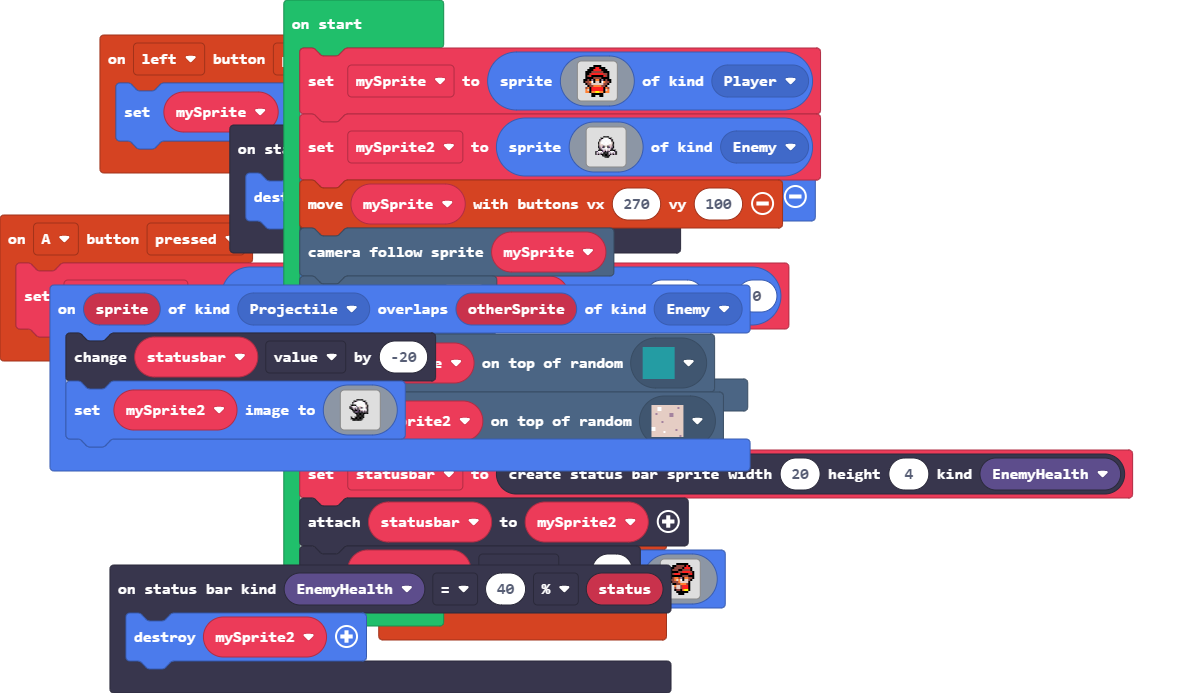
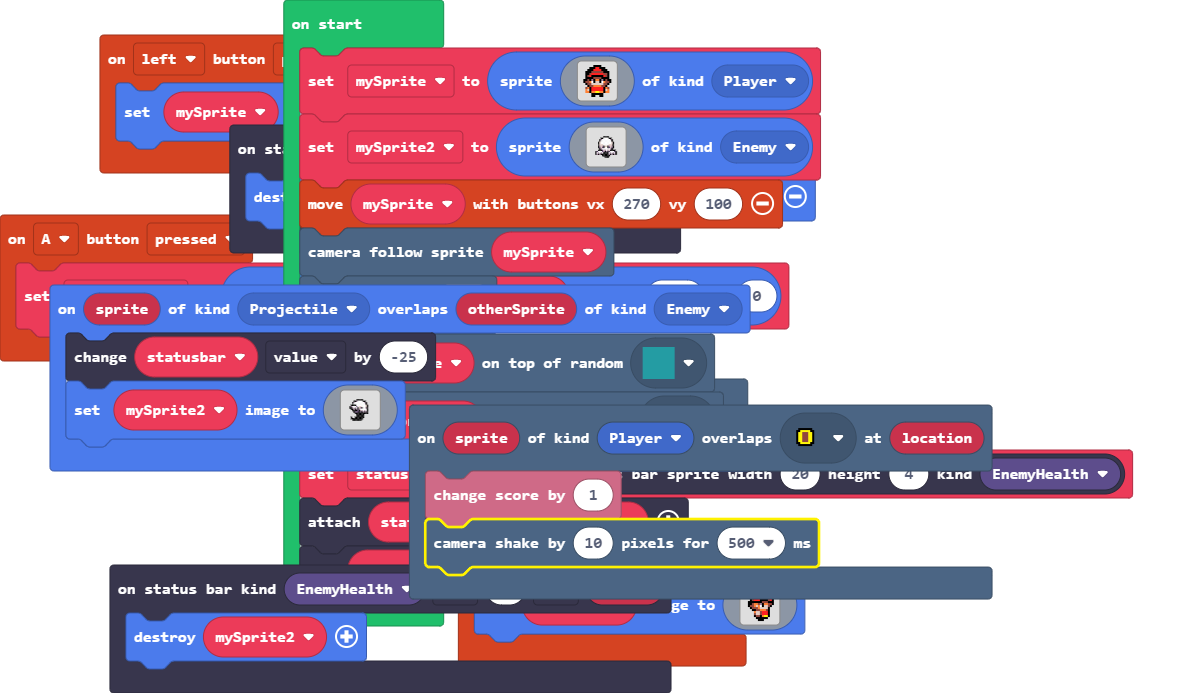
Update pxt.json, main.blocks, main.ts, images.g.jres, images.g.ts, tilemap.g.jres, tilemap.g.ts

Changed region(s): [[0.3122, 0.5758, 0.843, 0.9697]]

diff --git a/images.g.ts b/images.g.ts
@@ -3,7 +3,7 @@ namespace myImages {
 
     helpers._registerFactory("image", function(name: string) {
         switch(helpers.stringTrim(name)) {
-            case "image2":return img`
+            case "image1":return img`
 . . . . f f f f f f . . . . . . 
 . . . f 2 f e e e e f f . . . . 
 . . f 2 2 2 f e e e e f f . . . 
@@ -21,7 +21,7 @@ namespace myImages {
 . . . . f f f f f f . . . . . . 
 . . . . . . f f f . . . . . . . 
 `;
-            case "image3":return img`
+            case "image2":return img`
 . . . . . . f f f f f f . . . . 
 . . . . f f e e e e f 2 f . . . 
 . . . f f e e e e f 2 2 2 f . . 
@@ -39,23 +39,23 @@ namespace myImages {
 . . . . . . f f f f f f . . . . 
 . . . . . . . f f f . . . . . . 
 `;
-            case "image1":return img`
-. . . . . . f f f f . . . . . . 
-. . . . f f f 2 2 f f f . . . . 
-. . . f f f 2 2 2 2 f f f . . . 
-. . f f f e e e e e e f f f . . 
-. . f f e 2 2 2 2 2 2 e e f . . 
-. . f e 2 f f f f f f 2 e f . . 
-. . f f f f e e e e f f f f . . 
-. f f e f b f 4 4 f b f e f f . 
-. f e e 4 1 f d d f 1 4 e e f . 
-. . f e e d d d d d d e e f . . 
-. . . f e e 4 4 4 4 e e f . . . 
-. . e 4 f 2 2 2 2 2 2 f 4 e . . 
-. . 4 d f 2 2 2 2 2 2 f d 4 . . 
-. . 4 4 f 4 4 5 5 4 4 f 4 4 . . 
-. . . . . f f f f f f . . . . . 
-. . . . . f f . . f f . . . . . 
+            case "image3":return img`
+. . . . f f f f f f . . . . . . 
+. . . f 2 f e e e e f f . . . . 
+. . f 2 2 2 f e e e e f f . . . 
+. . f e e e e f f e e e f . . . 
+. f e 2 2 2 2 e e f f f f . . . 
+. f 2 e f f f f 2 2 2 e f . . . 
+. f f f e e e f f f f f f f . . 
+. f e e 4 4 f b e 4 4 e f f . . 
+. . f e d d f 1 4 d 4 e e f . . 
+. . . f d d d d 4 e e e f . . . 
+. . . f e 4 4 4 e e f f . . . . 
+. . . f 2 2 2 e d d 4 . . . . . 
+. . . f 2 2 2 e d d e . . . . . 
+. . . f 5 5 4 f e e f . . . . . 
+. . . . f f f f f f . . . . . . 
+. . . . . . f f f . . . . . . . 
 `;
             case "image4":return img`
 . . . . . . . . . . . . . . . . 
@@ -80,28 +80,28 @@ namespace myImages {
 ........................
 ........................
 ........................
-..........ffff..........
-........ff1111ff........
-.......fb111111bf.......
-.......f11111111f.......
-......fd11111111df......
-......fd11111111df......
-......fddd1111dddf......
-......fbdbfddfbdbf......
-......fcdcf11fcdcf......
-.......fb111111bf.......
-......fffcdb1bdffff.....
-....fc111cbfbfc111cf....
-....f1b1b1ffff1b1b1f....
-....fbfbffffffbfbfbf....
+.........fffff..........
+.......ffb1111ff........
+......fb1111111bf.......
+......f111111111f.......
+.....ffff1111111df......
+....fb111c1dd111df......
+....ffb1b1fdcf11bf......
+.....ffbfbfb11111f......
+......ffffcfdb1b1f......
+.......fcccfcfbfbf......
+........ffffffffff......
 .........ffffff.........
-...........fff..........
+.........ffffff.........
+.....f..fffffff.........
+.....fffffffff..........
+......fffffff...........
 ........................
 ........................
 ........................
 ........................
 `;
-            case "image7":return img`
+            case "image6":return img`
 ........................
 ........................
 ........................
@@ -122,6 +122,130 @@ namespace myImages {
 .....f..fffffff.........
 .....fffffffff..........
 ......fffffff...........
+........................
+........................
+........................
+........................
+`;
+            case "image7":return img`
+. . . . f f f f f f . . . . . . 
+. . . f 2 f e e e e f f . . . . 
+. . f 2 2 2 f e e e e f f . . . 
+. . f e e e e f f e e e f . . . 
+. f e 2 2 2 2 e e f f f f . . . 
+. f 2 e f f f f 2 2 2 e f . . . 
+. f f f e e e f f f f f f f . . 
+. f e e 4 4 f b e 4 4 e f f . . 
+. . f e d d f 1 4 d 4 e e f . . 
+. . . f d d d d 4 e e e f . . . 
+. . . f e 4 4 4 e e f f . . . . 
+. . . f 2 2 2 e d d 4 . . . . . 
+. . . f 2 2 2 e d d e . . . . . 
+. . . f 5 5 4 f e e f . . . . . 
+. . . . f f f f f f . . . . . . 
+. . . . . . f f f . . . . . . . 
+`;
+            case "image8":return img`
+. . . . . . f f f f f f . . . . 
+. . . . f f e e e e f 2 f . . . 
+. . . f f e e e e f 2 2 2 f . . 
+. . . f e e e f f e e e e f . . 
+. . . f f f f e e 2 2 2 2 e f . 
+. . . f e 2 2 2 f f f f e 2 f . 
+. . f f f f f f f e e e f f f . 
+. . f f e 4 4 e b f 4 4 e e f . 
+. . f e e 4 d 4 1 f d d e f . . 
+. . . f e e e 4 d d d d f . . . 
+. . . . f f e e 4 4 4 e f . . . 
+. . . . . 4 d d e 2 2 2 f . . . 
+. . . . . e d d e 2 2 2 f . . . 
+. . . . . f e e f 4 5 5 f . . . 
+. . . . . . f f f f f f . . . . 
+. . . . . . . f f f . . . . . . 
+`;
+            case "image9":return img`
+. . . . . . f f f f . . . . . . 
+. . . . f f f 2 2 f f f . . . . 
+. . . f f f 2 2 2 2 f f f . . . 
+. . f f f e e e e e e f f f . . 
+. . f f e 2 2 2 2 2 2 e e f . . 
+. . f e 2 f f f f f f 2 e f . . 
+. . f f f f e e e e f f f f . . 
+. f f e f b f 4 4 f b f e f f . 
+. f e e 4 1 f d d f 1 4 e e f . 
+. . f e e d d d d d d e e f . . 
+. . . f e e 4 4 4 4 e e f . . . 
+. . e 4 f 2 2 2 2 2 2 f 4 e . . 
+. . 4 d f 2 2 2 2 2 2 f d 4 . . 
+. . 4 4 f 4 4 5 5 4 4 f 4 4 . . 
+. . . . . f f f f f f . . . . . 
+. . . . . f f . . f f . . . . . 
+`;
+            case "image10":return img`
+. . . . . . . . . . . . . . . . 
+. . . . . . . . . . . . . . . . 
+. . . . . . . . . . . . . . . . 
+. . . . . . . . . . . . . . . . 
+. . . . . 5 5 5 5 5 5 5 5 5 . . 
+. . . 5 5 5 5 5 5 5 5 5 5 5 . . 
+. . . 5 5 5 5 5 5 5 5 5 5 5 . . 
+. . . . . 5 5 5 5 5 5 5 5 5 . . 
+. . . . . . . . . . . . . . . . 
+. . . . . . . . . . . . . . . . 
+. . . . . . . . . . . . . . . . 
+. . . . . . . . . . . . . . . . 
+. . . . . . . . . . . . . . . . 
+. . . . . . . . . . . . . . . . 
+. . . . . . . . . . . . . . . . 
+. . . . . . . . . . . . . . . . 
+`;
+            case "image11":return img`
+........................
+........................
+........................
+........................
+.........fffff..........
+.......ffb1111ff........
+......fb1111111bf.......
+......f111111111f.......
+.....ffff1111111df......
+....fb111c1dd111df......
+....ffb1b1fdcf11bf......
+.....ffbfbfb11111f......
+......ffffcfdb1b1f......
+.......fcccfcfbfbf......
+........ffffffffff......
+.........ffffff.........
+.........ffffff.........
+.....f..fffffff.........
+.....fffffffff..........
+......fffffff...........
+........................
+........................
+........................
+........................
+`;
+            case "image12":return img`
+........................
+........................
+........................
+........................
+..........ffff..........
+........ff1111ff........
+.......fb111111bf.......
+.......f11111111f.......
+......fd11111111df......
+......fd11111111df......
+......fddd1111dddf......
+......fbdbfddfbdbf......
+......fcdcf11fcdcf......
+.......fb111111bf.......
+......fffcdb1bdffff.....
+....fc111cbfbfc111cf....
+....f1b1b1ffff1b1b1f....
+....fbfbffffffbfbfbf....
+.........ffffff.........
+...........fff..........
 ........................
 ........................
 ........................

diff --git a/tilemap.g.ts b/tilemap.g.ts
@@ -8,6 +8,8 @@ namespace myTiles {
     export const tile2 = image.ofBuffer(hex``);
     //% fixedInstance jres blockIdentity=images._tile
     export const tile3 = image.ofBuffer(hex``);
+    //% fixedInstance jres blockIdentity=images._tile
+    export const tile4 = image.ofBuffer(hex``);
 
     helpers._registerFactory("tilemap", function(name: string) {
         switch(helpers.stringTrim(name)) {
@@ -50,7 +52,7 @@ namespace myTiles {
 . . . . . . . . . . . . . . . . 
 `, [myTiles.transparency16], TileScale.Sixteen);
             case "level1":
[2 lines of base64/hex data omitted]
 ...22.....22...........2.....22..................222....2.........
 ....2.2..22....222.....2......2...222....2...2222222...22..222....
 22..222.22....22.22....2......2..22.....22222......2..22..22.222..
@@ -61,7 +63,7 @@ namespace myTiles {
 .......2..22222.222222.....2222.222......2...22....22...2.....2...
 ......22...2.........2.......22.222......22..22....2....2.....2...
 ......2....2..........2.......................2....2....2.....2...
-`, [myTiles.transparency16,myTiles.tile1,myTiles.tile3,sprites.builtin.forestTiles0,myTiles.tile2,sprites.castle.tilePath5,sprites.castle.tileGrass1], TileScale.Sixteen);
+`, [myTiles.transparency16,myTiles.tile1,myTiles.tile3,sprites.builtin.forestTiles0,myTiles.tile2,sprites.castle.tilePath5,myTiles.tile4], TileScale.Sixteen);
         }
         return null;
     })
@@ -75,6 +77,8 @@ namespace myTiles {
             case "tile2":return tile2;
             case "myTile1":
             case "tile3":return tile3;
+            case "myTile2":
+            case "tile4":return tile4;
         }
         return null;
     })

diff --git a/main.ts b/main.ts
@@ -1,3 +1,6 @@
+statusbars.onStatusReached(StatusBarKind.EnemyHealth, statusbars.StatusComparison.EQ, statusbars.ComparisonType.Percentage, 50, function (status) {
+    mySprite2.destroy()
+})
 controller.A.onEvent(ControllerButtonEvent.Pressed, function () {
     projectile = sprites.createProjectileFromSprite(img`
         . . . . . . . . . . . . . . . . 
@@ -61,14 +64,15 @@ controller.right.onEvent(ControllerButtonEvent.Pressed, function () {
         . . . . . . . f f f . . . . . . 
         `)
 })
-statusbars.onStatusReached(StatusBarKind.EnemyHealth, statusbars.StatusComparison.EQ, statusbars.ComparisonType.Percentage, 40, function (status) {
-    mySprite2.destroy()
+scene.onOverlapTile(SpriteKind.Player, assets.tile`myTile2`, function (sprite, location) {
+    info.changeScoreBy(1)
+    scene.cameraShake(10, 500)
 })
 scene.onOverlapTile(SpriteKind.Projectile, assets.tile`myTile1`, function (sprite, location) {
     game.over(true)
 })
 sprites.onOverlap(SpriteKind.Projectile, SpriteKind.Enemy, function (sprite, otherSprite) {
-    statusbar.value += -20
+    statusbar.value += -25
     mySprite2.setImage(img`
         ........................
         ........................
@@ -151,4 +155,4 @@ tiles.placeOnRandomTile(mySprite, assets.tile`myTile0`)
 tiles.placeOnRandomTile(mySprite2, sprites.castle.tilePath5)
 statusbar = statusbars.create(20, 4, StatusBarKind.EnemyHealth)
 statusbar.attachToSprite(mySprite2)
-statusbar.value = 20
+statusbar.value = 100
